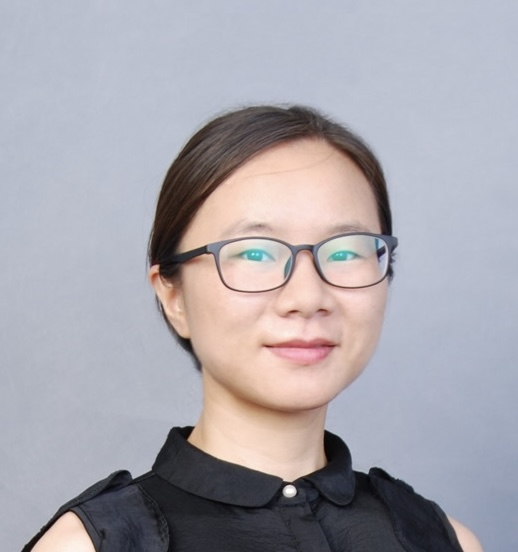
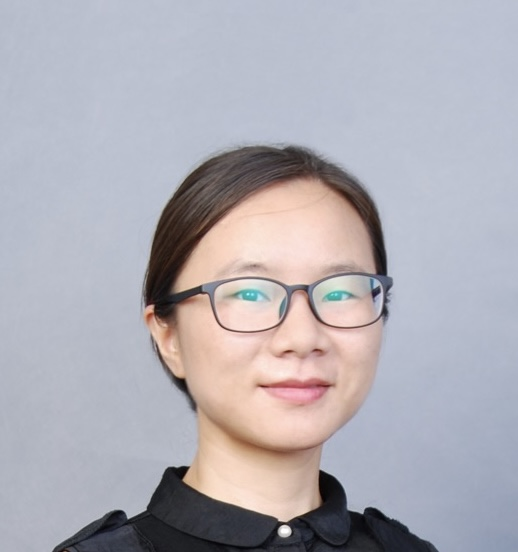
update

Changed region(s): [[0.0309, 0.1848, 0.9575, 1.0]]

diff --git a/content/pages/home.md b/content/pages/home.md
@@ -58,32 +58,6 @@ description: "Personal website for Xuemei Gu."
   </div>
 </section>
 
-<section id="publications" class="academic-section section-grid">
-  <div class="section-label">
-    <h2>Last publications</h2>
-  </div>
-  <div class="section-body">
-    <div class="publication-list compact-publications">
-      {% assign selected_publications = site.publications | sort: "year" | reverse %}
-      {% for publication in selected_publications limit:6 %}
-        <article class="publication-row">
-          <p>
-            {{ publication.authors }} ({{ publication.year }}).
-            <a href="{{ publication.url | relative_url }}">{{ publication.title }}</a>.
-            <em>{{ publication.venue }}</em>.
-          </p>
-          <div class="link-row">
-            {% if publication.paper_url and publication.paper_url != "" %}<a href="{{ publication.paper_url }}">Paper</a>{% endif %}
-            {% if publication.code_url and publication.code_url != "" %}<a href="{{ publication.code_url }}">Code</a>{% endif %}
-            {% if publication.data_url and publication.data_url != "" %}<a href="{{ publication.data_url }}">Data</a>{% endif %}
-          </div>
-        </article>
-      {% endfor %}
-    </div>
-    <p class="more-link"><a href="{{ '/publications/' | relative_url }}">See all publications</a></p>
-  </div>
-</section>
-
 <section id="contact" class="academic-section section-grid">
   <div class="section-label">
     <h2>Contact</h2>